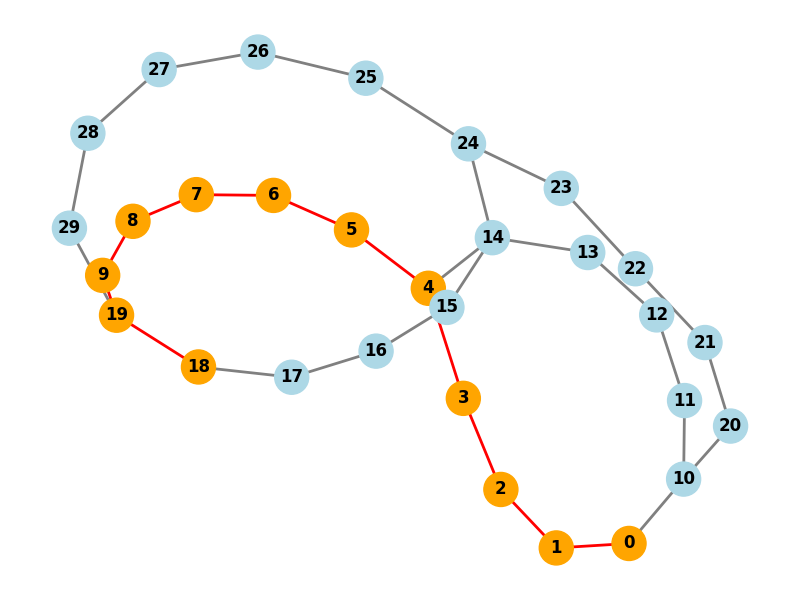
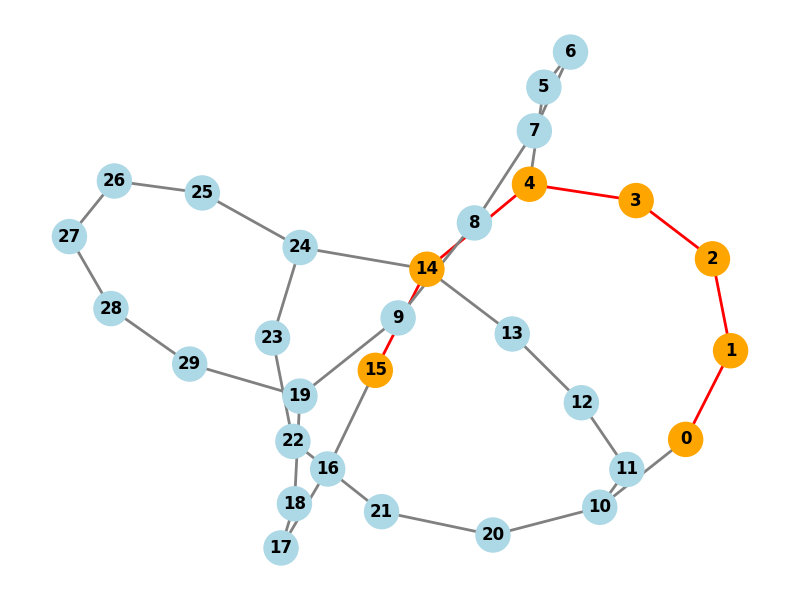
modified:   src/Front.py 	modified:   src/grafo_temp.png

diff --git a/src/Front.py b/src/Front.py
@@ -47,7 +47,7 @@ def exibir_grafo():
     if erro:
         messagebox.showerror('Erro', erro)
         return
-    # Gerar subgrafo do caminho percorrido
+    # Sempre mostrar o grafo completo, destacando o caminho percorrido
     try:
         from PickingSlotting import PickingSlotting
         ps = PickingSlotting(nos, grafo)
@@ -60,45 +60,29 @@ def exibir_grafo():
         opcoes = []
         melhor_caminho = caminho
         melhor_custo = custo
-        # Para métodos que retornam apenas o melhor, exibe só ele
         opcoes.append((caminho, custo))
-        # Exibir na interface
         texto_opcoes = ''
         for idx, (cam, cst) in enumerate(opcoes):
             texto_opcoes += f'Opção {idx+1}: {cam} | Custo: {cst}\n'
         texto_opcoes += f'\nMelhor caminho: {melhor_caminho} | Menor custo: {melhor_custo}'
         opcoes_label.config(text=texto_opcoes)
-    except Exception as e:
-        caminho = None
-        opcoes_label.config(text='Não foi possível encontrar caminho.')
 
-        if caminho and len(caminho) > 1:
-            G = nx.Graph()
-            edges_caminho = list(zip(caminho, caminho[1:]))
-            G.add_nodes_from(caminho)
-            G.add_edges_from(edges_caminho)
-            pos = {}
-            # Distribuir os nós em linha
-            for idx, node in enumerate(caminho):
-                pos[node] = (idx, 0)
-            plt.figure(figsize=(1.5 * len(caminho), 2))
-            nx.draw(G, pos, with_labels=True, node_color='orange', edge_color='red', width=2, font_weight='bold', node_size=600)
-            plt.title(f'Caminho: {caminho}')
-        else:
-            # Se não há caminho, mostrar grafo completo
-            G = nx.Graph()
-            for i, adj in zip(nos, grafo):
-                for j in adj:
-                    G.add_edge(i, j)
-            pos = nx.circular_layout(G)
-            plt.figure(figsize=(5, 4))
-            nx.draw(G, pos, with_labels=True, node_color='lightblue', edge_color='gray')
-            plt.title('Grafo completo (sem caminho)')
-
+        # Grafo completo
+        G = nx.Graph()
+        for i, adj in zip(nos, grafo):
+            for j in adj:
+                G.add_edge(i, j)
+        # Destaca os nós e arestas do caminho
+        edges_caminho = list(zip(melhor_caminho, melhor_caminho[1:])) if melhor_caminho else []
+        node_colors = ['orange' if melhor_caminho and n in melhor_caminho else 'lightblue' for n in G.nodes()]
+        edge_colors = ['red' if melhor_caminho and ((u, v) in edges_caminho or (v, u) in edges_caminho) else 'gray' for u, v in G.edges()]
+        pos = nx.spring_layout(G)
+        plt.figure(figsize=(8, 6))
+        nx.draw(G, pos, with_labels=True, node_color=node_colors, edge_color=edge_colors, width=2, font_weight='bold', node_size=600)
+        plt.title(f'Caminho Percorrido: {melhor_caminho}')
         img_path = os.path.join(os.path.dirname(__file__), 'grafo_temp.png')
         plt.savefig(img_path)
         plt.close()
-        # Exibir imagem no Tkinter
         try:
             img = Image.open(img_path)
             img = img.resize((300, 240))
@@ -112,6 +96,8 @@ def exibir_grafo():
                 exibir_grafo.img_label.pack(pady=10)
         except Exception as e:
             messagebox.showerror('Erro', f'Falha ao exibir imagem: {e}')
+    except Exception as e:
+        opcoes_label.config(text=f'Não foi possível encontrar caminho. Erro: {e}')
     nos_str = ','.join(str(n) for n in nos)
     grafo_str = '\n'.join(','.join(str(x) for x in adj) for adj in grafo)
     return nos, grafo, nos_str, grafo_str, None
